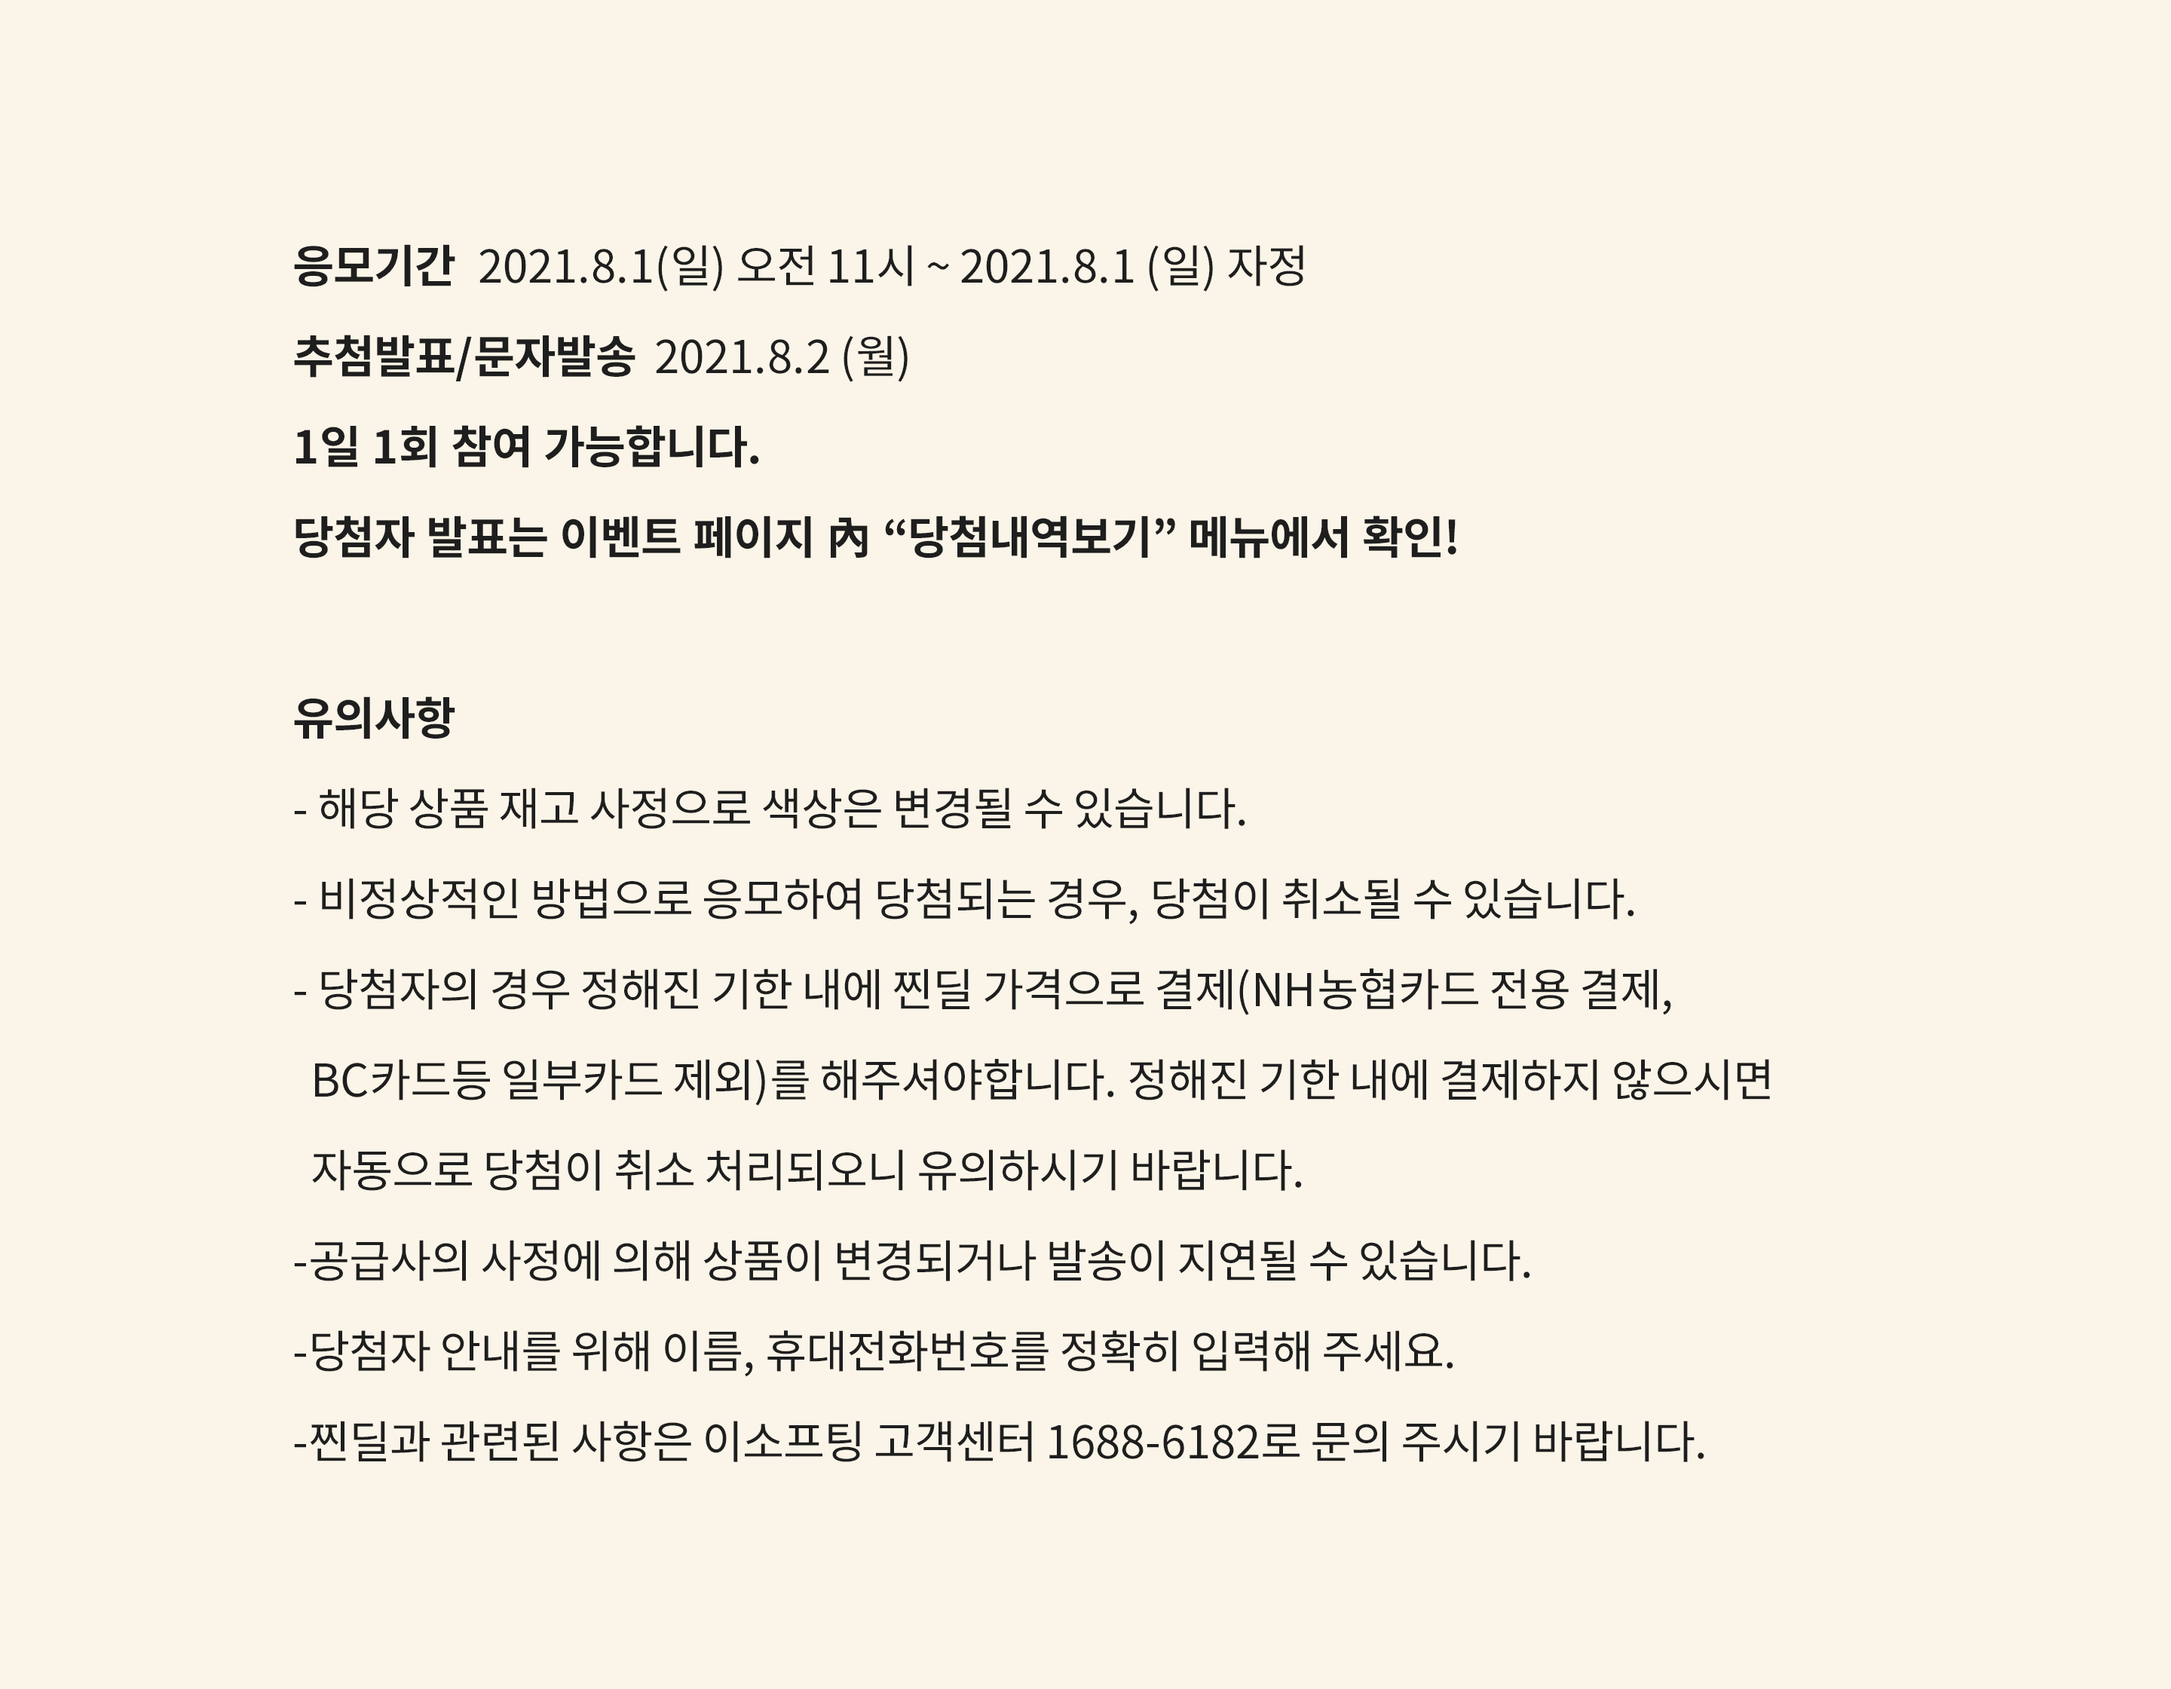
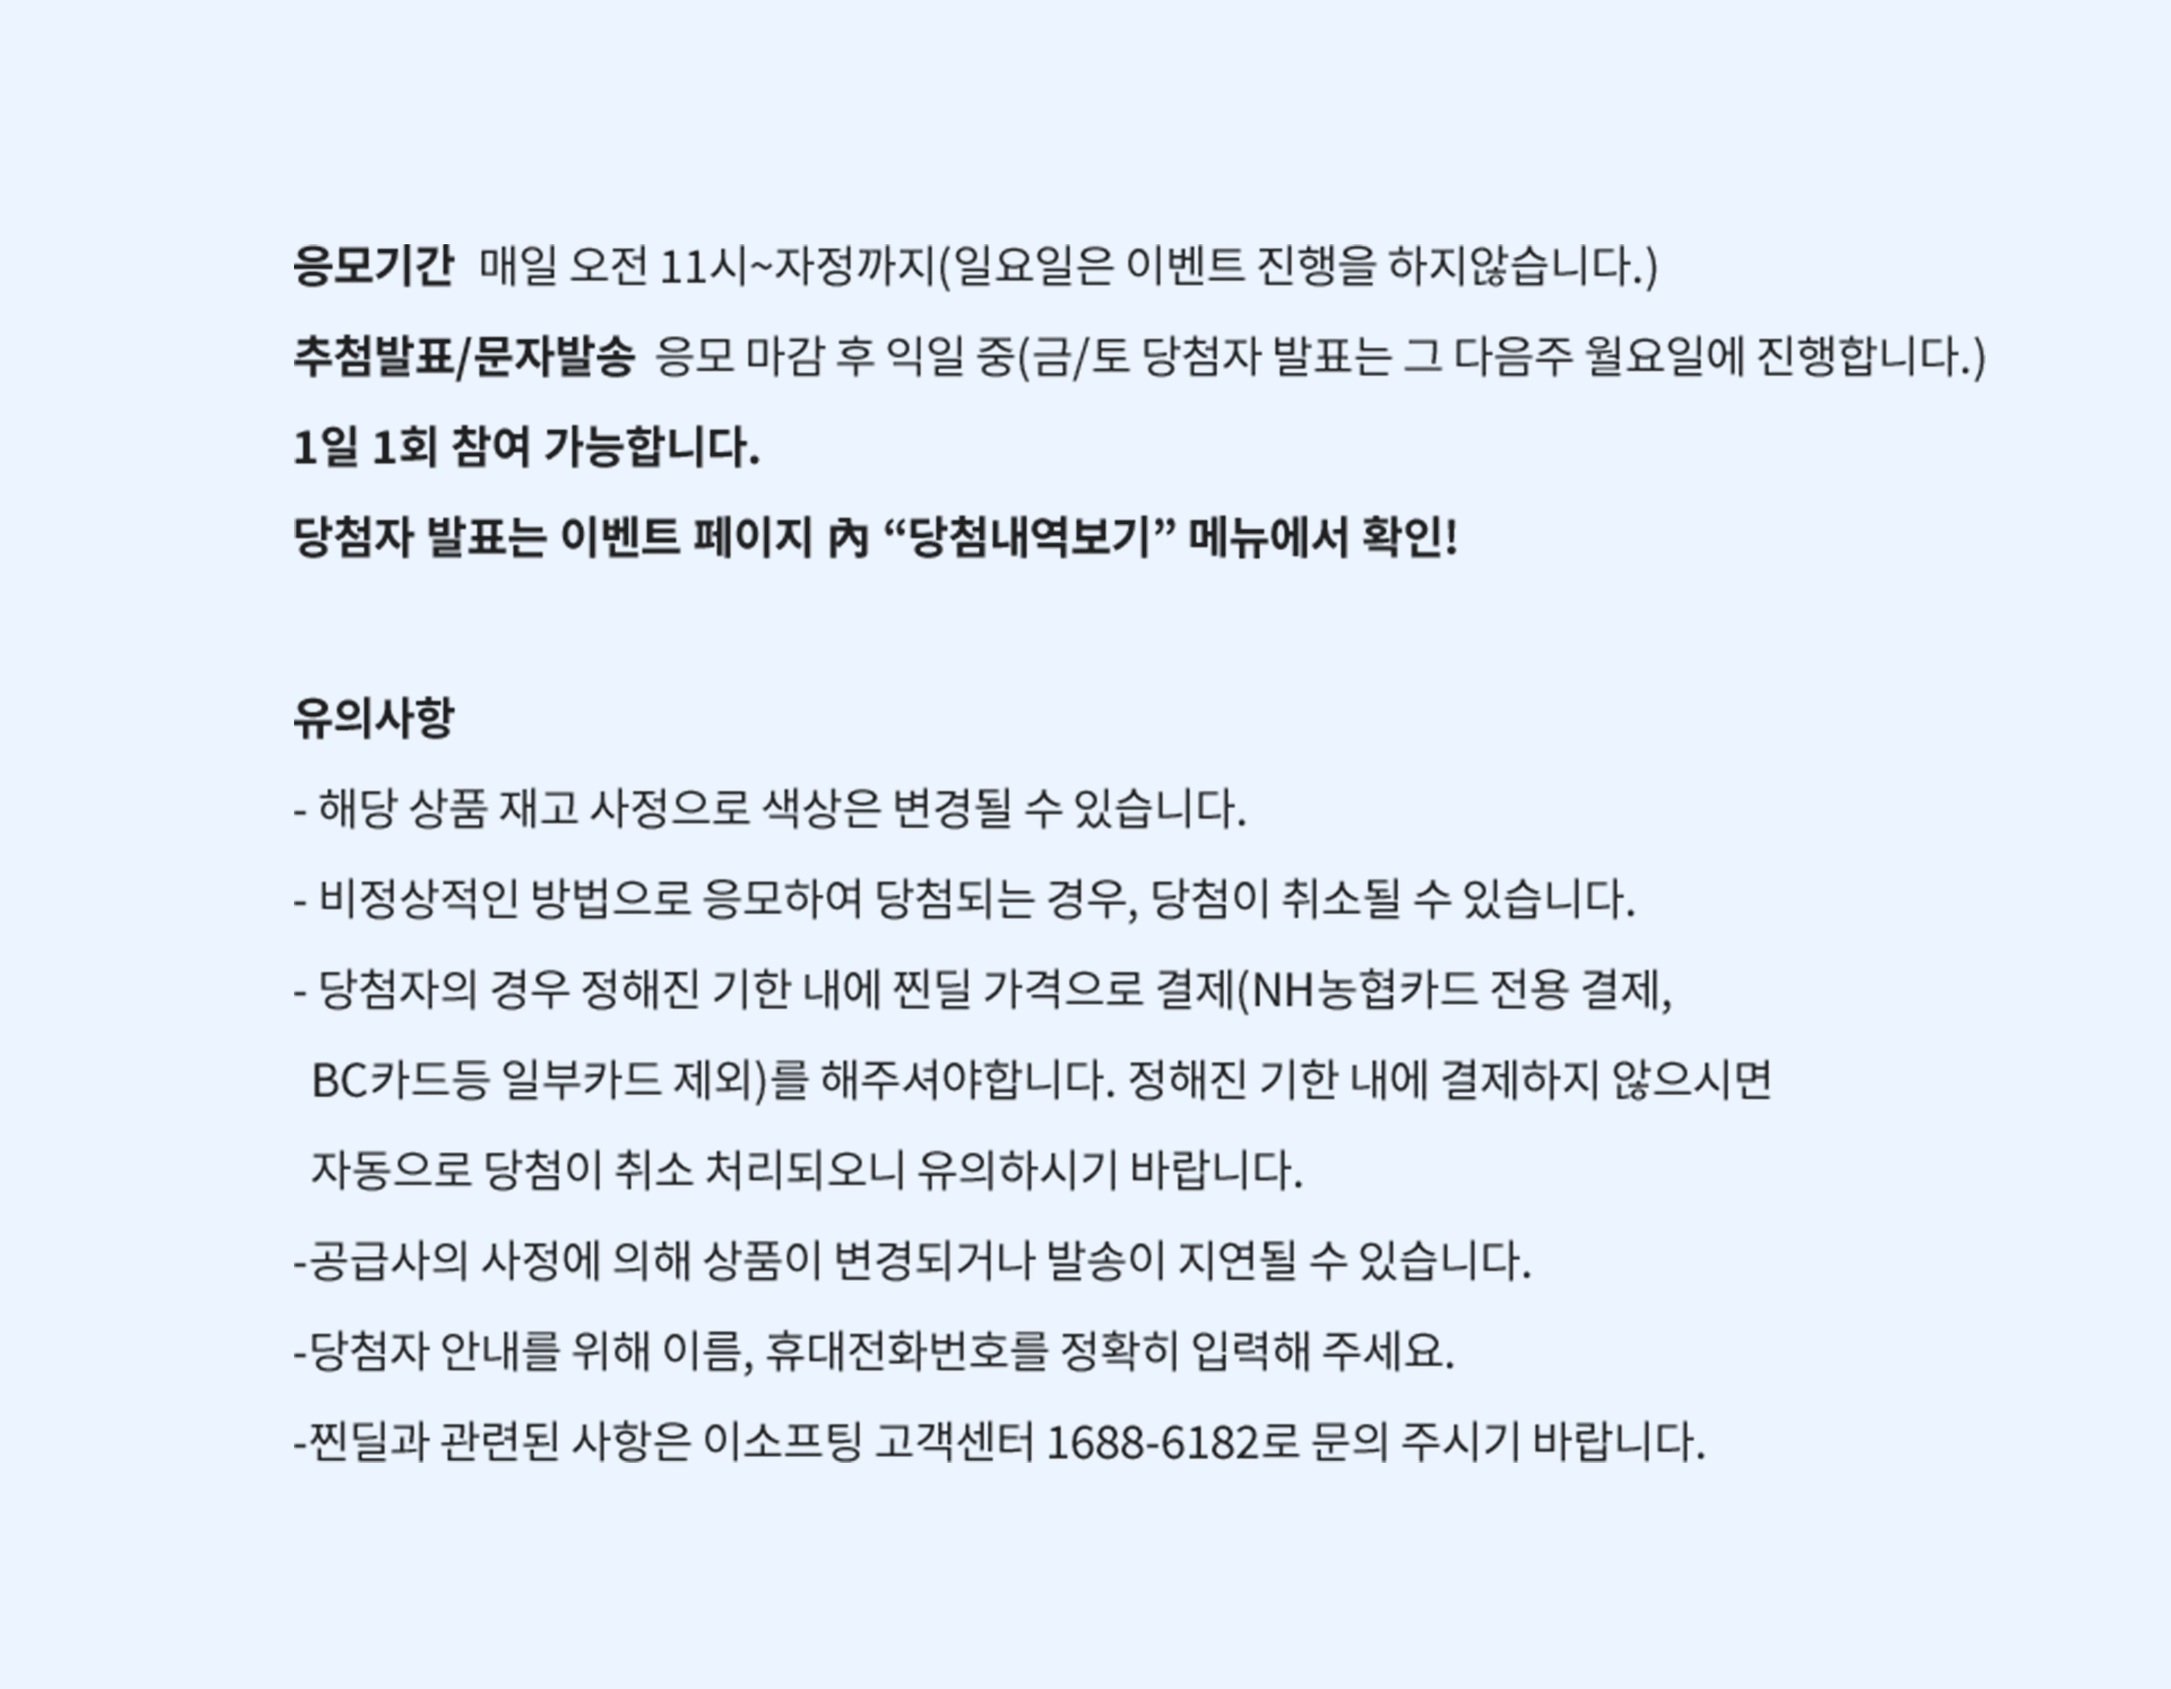
이미지,컬러 수정요소 반영

diff --git a/css/event-month-mb.css b/css/event-month-mb.css
@@ -129,7 +129,7 @@
   height: 50px;
   line-height: 50px;
   border-radius: 50%;
-  background-color: #f55217;
+  background-color: #0078ff;
 }
 .event-week-inner .owl-item .event-on {
   width: 300px;
@@ -138,8 +138,8 @@
 .event-week-inner .owl-item .event-on .img-wrap {
   width: 100%;
   height: 100%;
-  box-shadow: 0px 10px 20px 0 rgba(245, 82, 23, 0.4);
-  border: solid 5px #f55217;
+  box-shadow: 0px 10px 20px 0 rgba(0, 120, 255, 0.4);
+  border: solid 5px #0078ff;
   border-radius: 50%;
   background-color: transparent;
   overflow: hidden;
@@ -215,8 +215,8 @@
   border: 2px solid #e6e6e6;
 }
 .crl_list .hot_btn_02 a {
-  background-color: #f55217;
-  border: 2px solid #f55217;
+  background-color: #0078ff;
+  border: 2px solid #0078ff;
 }
 
 /*시간*/
@@ -229,7 +229,7 @@
 .timeline .d_day {
   margin-right: 7px;
   font-weight: bold;
-  color: #f55217;
+  color: #0078ff;
 }
 .timeline span#end_hour,
 .timeline span#end_min,
@@ -284,8 +284,8 @@
   height: 50px;
 }
 .btn_area .btn_type {
-  background: #f55217;
-  border-color: #f55217;
+  background: #0078ff;
+  border-color: #0078ff;
   color: #fff;
 }
 
@@ -294,10 +294,10 @@
   padding: 0 20px;
   height: 50px;
   line-height: 50px;
-  background-color: #f55217 !important;
+  background-color: #0078ff !important;
 }
 .btn_default_line.btn_default_orange {
-  background: #f55217;
+  background: #0078ff;
 }
 /* popup 스타일: e */
 

diff --git a/css/event-month-pc.css b/css/event-month-pc.css
@@ -111,13 +111,13 @@
   height: 50px;
   line-height: 50px;
   border-radius: 50%;
-  background-color: #f55217;
+  background-color: #0078ff;
 }
 .event-week-inner .event-on .img-wrap {
   width: 300px;
   height: 300px;
-  box-shadow: 0px 10px 20px 0 rgba(245, 82, 23, 0.4);
-  border: solid 5px #f55217;
+  box-shadow: 0px 20px 30px 0 rgba(0, 0, 0, 0.23);
+  border: solid 5px #0078ff;
   border-radius: 50%;
   background-color: transparent;
   overflow: hidden;
@@ -188,8 +188,8 @@
   border: 2px solid #e6e6e6;
 }
 .crl_list .hot_btn_02 a {
-  background-color: #f55217;
-  border: 2px solid #f55217;
+  background-color: #0078ff;
+  border: 2px solid #0078ff;
 }
 
 /*시간*/
@@ -202,7 +202,7 @@
 .timeline .d_day {
   margin-right: 31px;
   font-weight: bold;
-  color: #f55217;
+  color: #0078ff;
 }
 .timeline span#end_hour,
 .timeline span#end_min,
@@ -257,8 +257,8 @@
   height: 50px;
 }
 .btn_area .btn_type {
-  background: #f55217;
-  border-color: #f55217;
+  background: #0078ff;
+  border-color: #0078ff;
   color: #fff;
 }
 
@@ -267,10 +267,10 @@
   padding: 0 20px;
   height: 50px;
   line-height: 50px;
-  background-color: #f55217 !important;
+  background-color: #0078ff !important;
 }
 .btn_default_line.btn_default_orange {
-  background: #f55217;
+  background: #0078ff;
 }
 /* popup 스타일: e */
 

diff --git a/event-month-pc.html b/event-month-pc.html
@@ -1646,7 +1646,7 @@
         <div class="layout_wrap">
           <div class="event_view_con">
             <div class="t-center">
-              <p><img src="img/event/event-01.jpg" alt="" /></p>
+              <p><img src="img/event/event-01.png" alt="" /></p>
               <p><img src="img/event/event-02.jpg" alt="" /></p>
               <div class="dt_dealArea">
                 <div class="dt_deal">
